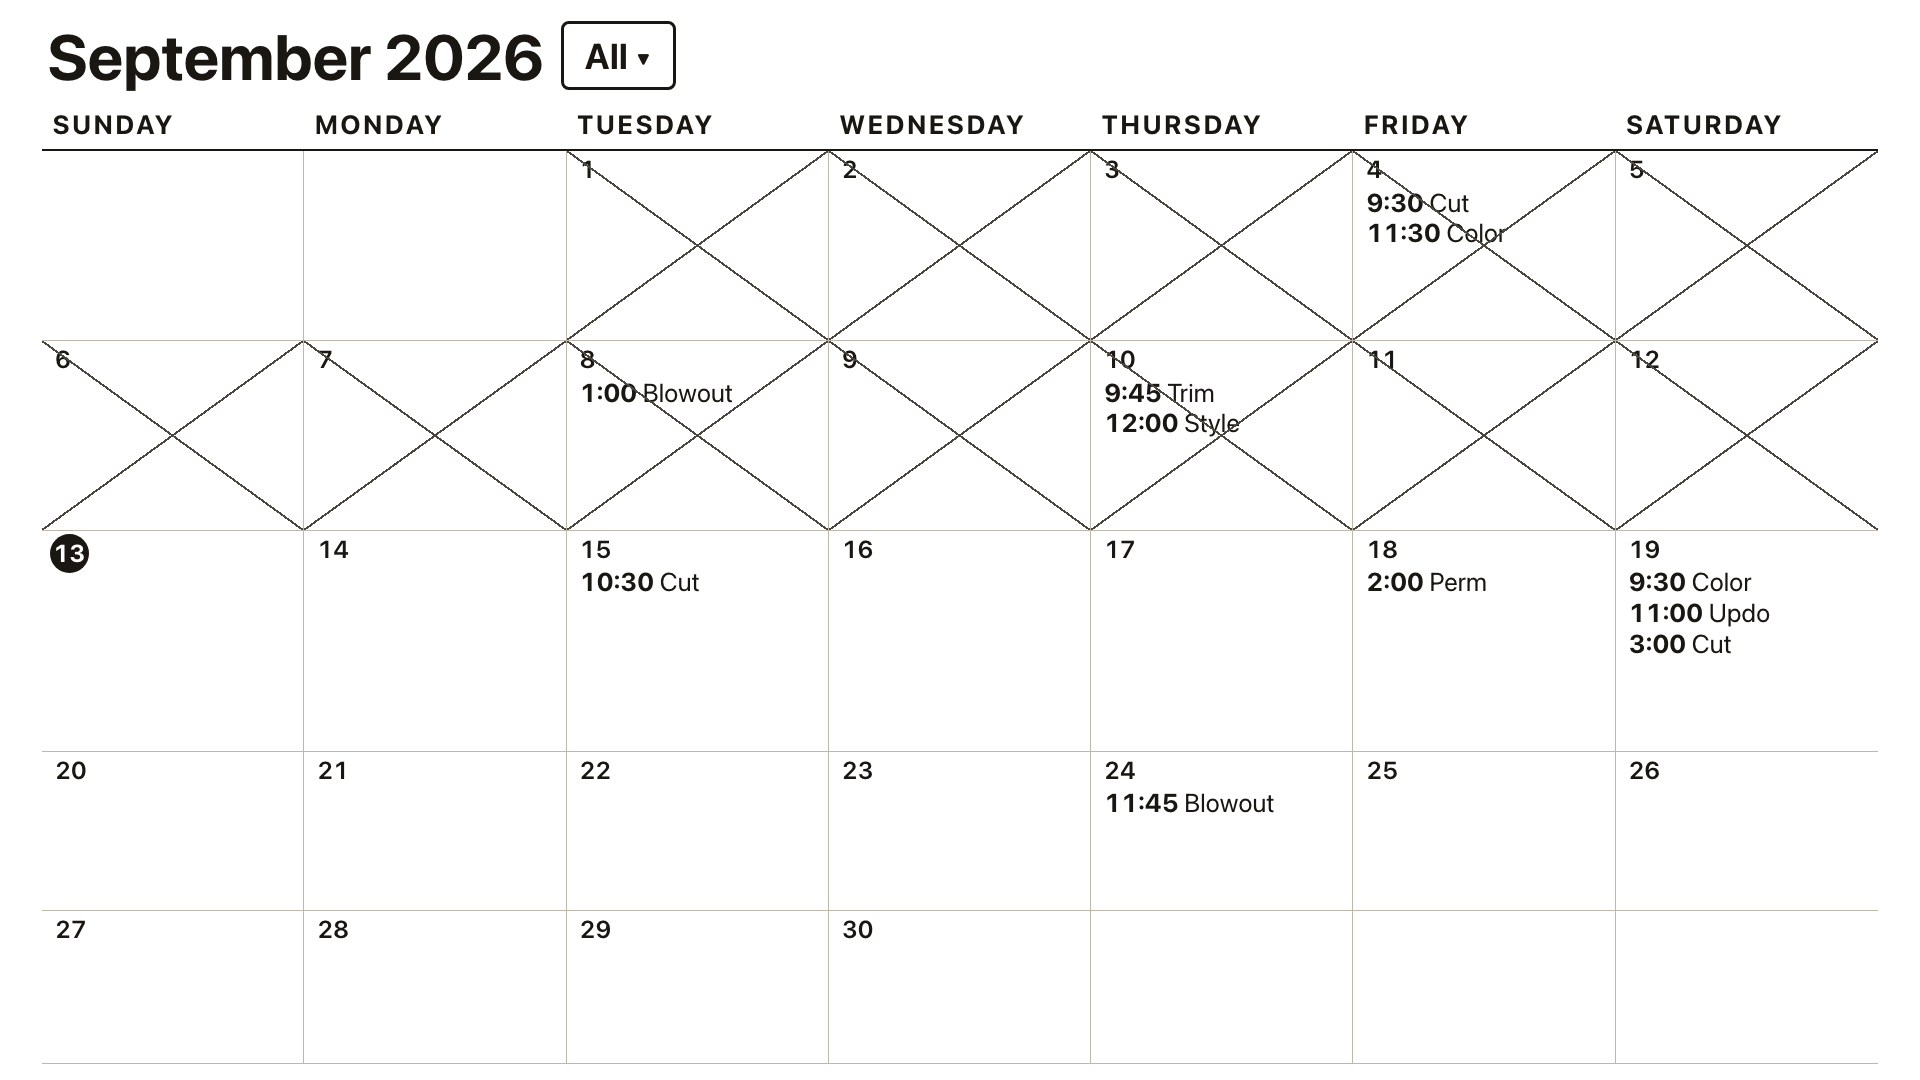
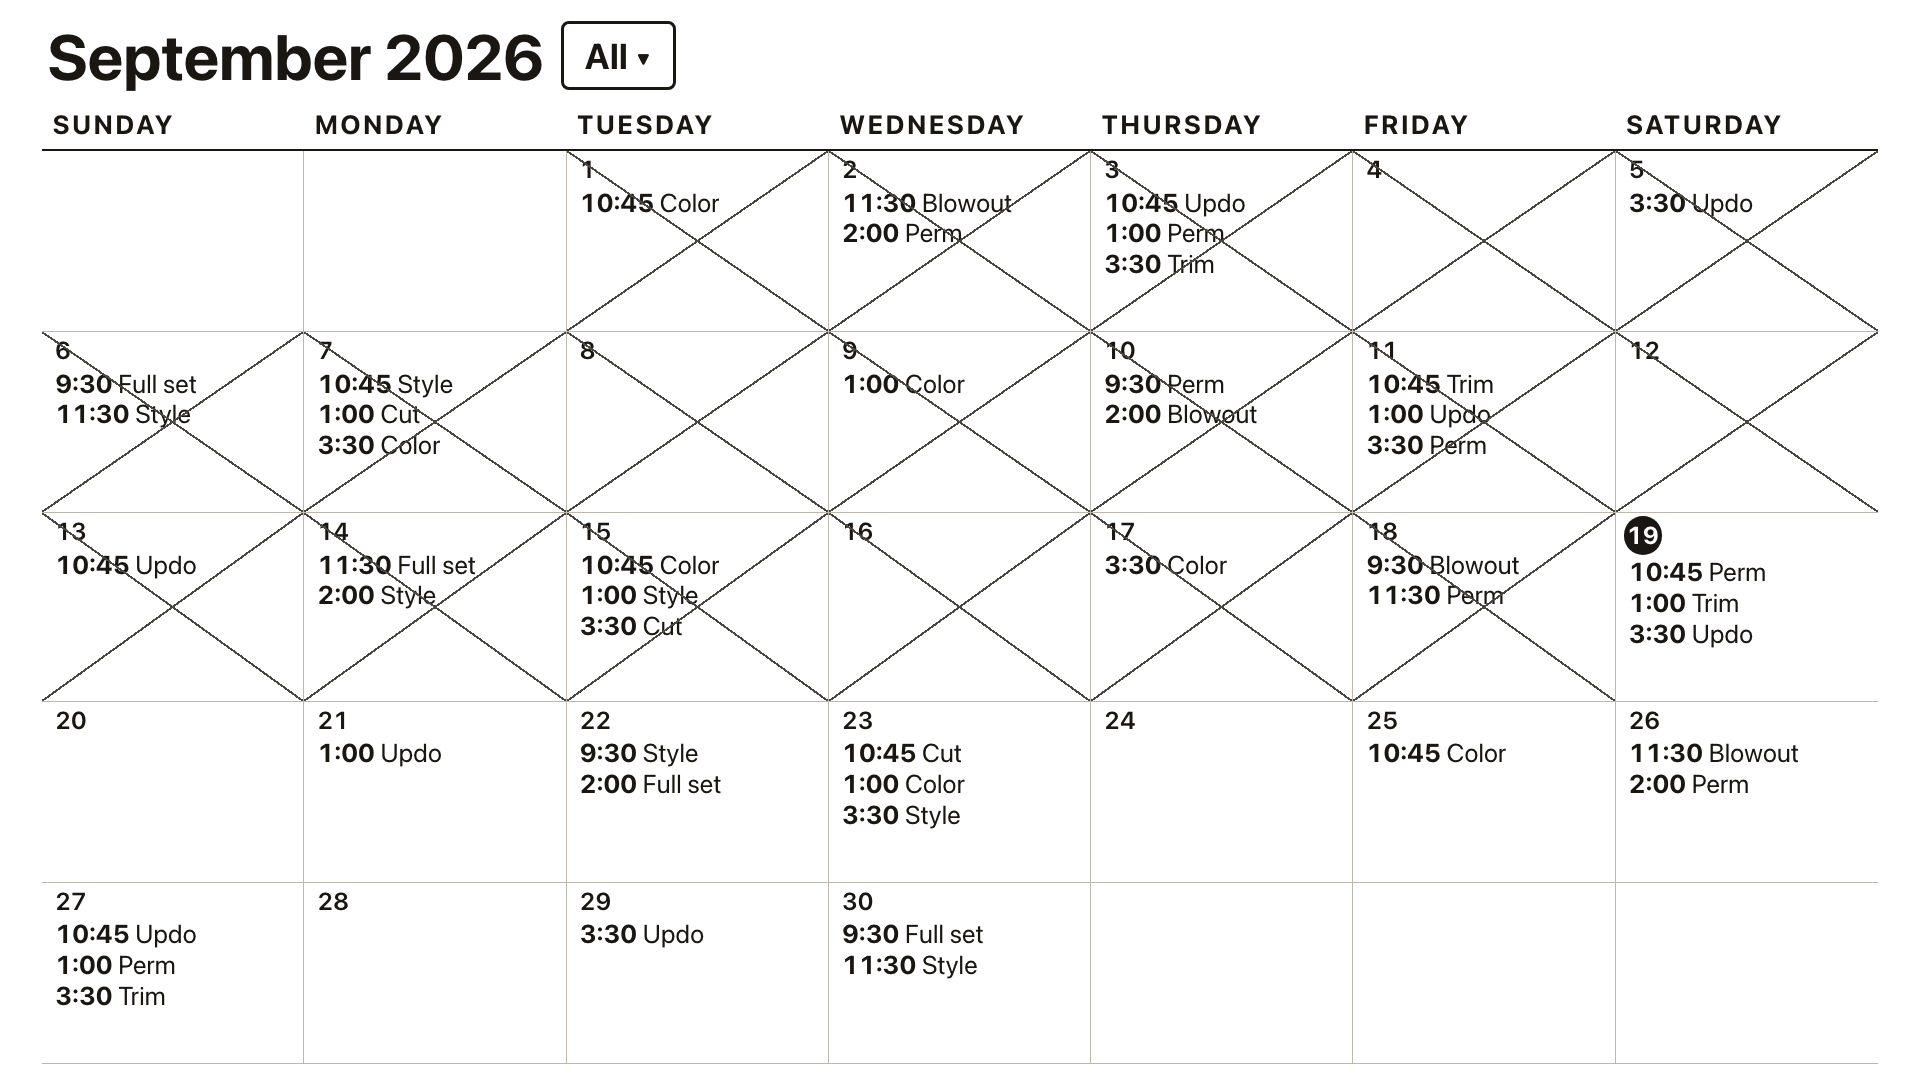
update readme

diff --git a/README.md b/README.md
@@ -2,7 +2,10 @@
 
 ## [**Live demo →**](https://saloncalendar.vercel.app/)
 
-Sample data only, no login. Edits reset when you reload.
+> **The demo doesn't save anything.** It runs on sample data in your browser,
+> with no database and no PIN, so whatever you add disappears when you
+> reload. The real salon deployment is separate: it saves every appointment
+> to a database, syncs live across devices, and is protected by a 4-digit PIN.
 
 ![The calendar, showing a month full of appointments](docs/images/calendar-screenshot.png)
 
@@ -42,14 +45,16 @@ tool for someone who just wants to write down a name and a time.
   before the note (`2:30Full set`), a dash between them, `p` or `p.m.`,
   even 24-hour time all read correctly, so every appointment stays in
   chronological order.
-- **Live sync.** Book it on the front-desk computer, see it instantly on
-  the owner's phone — no refreshing, no "did that save?"
+- **Live sync (real deployment; the demo doesn't save).** Book it on the
+  front-desk computer, see it instantly on the owner's phone — no
+  refreshing, no "did that save?"
 - **Business-hours-aware.** The time list only offers times the salon is
   open, so there's no 2 AM appointment by accident.
 - **Same-time appointments just work.** Multiple staff can each have a
   client at once — the app doesn't treat that as a conflict.
-- **A PIN, not a password.** Connecting a device takes a 4-digit PIN,
-  the kind everyone already knows from a debit card.
+- **A PIN, not a password (real deployment only; the demo has no PIN).**
+  Connecting a device takes a 4-digit PIN, the kind everyone already knows
+  from a debit card.
 - **Installs like an app.** Add it to a home screen or desktop — no App
   Store, no download, and it updates itself.
 
